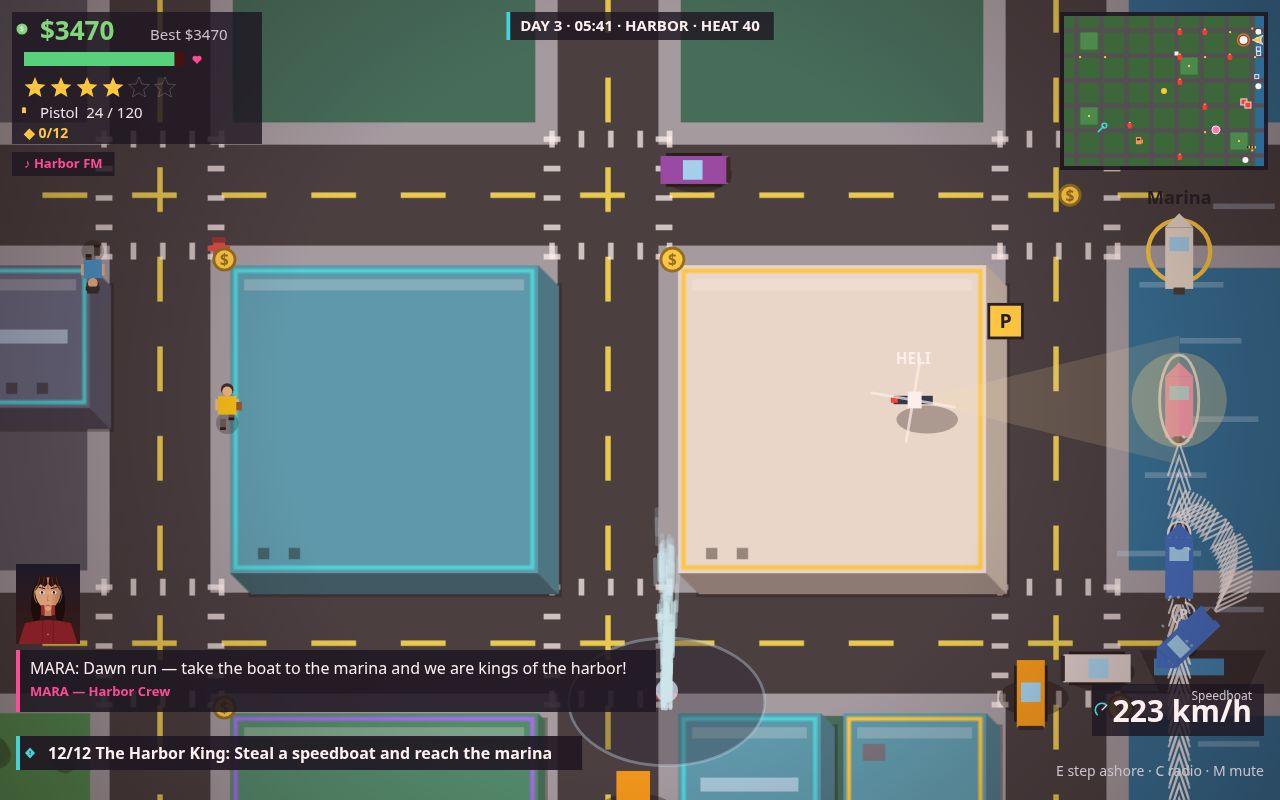
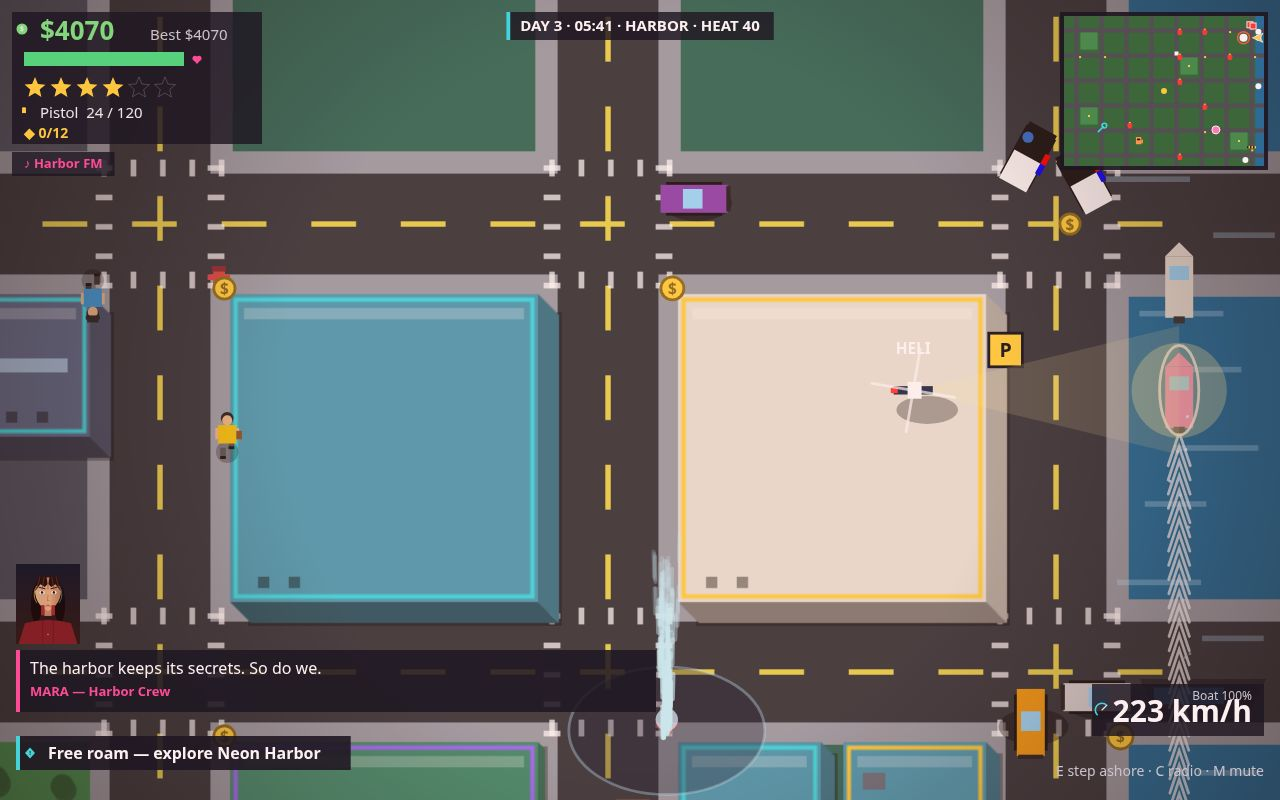
Neon Harbor round 14: police boats hunt you on water

diff --git a/game/src/police.js b/game/src/police.js
@@ -61,8 +61,10 @@ function spawnPointNear(player, rng, distance, city) {
 }
 export function spawnPoliceUnit(police, player, rng, kind, city) {
   if (kind === 'boat') {
-    const bx = WATER_X + 30 + rng.range(0, 60);
-    const by = Math.max(60, Math.min(WORLD_H - 60, player.y + rng.range(-500, 500)));
+    const a = rng.range(0, Math.PI * 2);
+    const d = rng.range(420, 560);
+    const bx = Math.max(WATER_X + 30, Math.min(WORLD_W - 30, player.x + Math.cos(a) * d));
+    const by = Math.max(60, Math.min(WORLD_H - 60, player.y + Math.sin(a) * d));
     police.units.push({
       kind: 'boat', x: bx, y: by, angle: 0, speed: 0, health: 3, ramTimer: 0, wake: [],
     });
@@ -182,7 +184,8 @@ export function stepPolice(police, state, dt, rng, events) {
   const districtHeat = state.heat ? state.heat[state.city.districts.indexOf(district)] || 0 : 0;
   const hotExtra = wanted >= 1 && districtHeat >= 60 ? 2 : 0;
   const want = wantedUnitCount(wanted) + state.gunmen + hotExtra;
-  if (!player.inBoat) police.units = police.units.filter((u) => u.kind !== 'boat');
+  if (!player.inBoat || wanted < 3) police.units = police.units.filter((u) => u.kind !== 'boat');
+  if (!police.units.some((u) => u.kind === 'boat')) police.boatWarned = false;
   police.spawnTimer -= dt;
   if (police.roadblockTimer > 0) police.roadblockTimer -= dt;
   if (police.barrierTimer > 0) police.barrierTimer -= dt;
@@ -238,10 +241,19 @@ export function stepPolice(police, state, dt, rng, events) {
   }
   if (police.units.length < want && police.spawnTimer <= 0) {
     police.spawnTimer = heli.active ? 0.8 : (districtHeat >= 60 ? 0.9 : 1.2);
-    const kind = player.inBoat ? 'boat'
+    const boats = police.units.filter((u) => u.kind === 'boat').length;
+    const kind = player.inBoat
+      ? (wanted >= 3 && boats < 2 ? 'boat' : null)
       : (wanted >= 6 && rng.chance(0.45) ? (player.inCar ? 'mtruck' : 'soldier')
         : (player.inCar && wanted >= 2 ? 'car' : 'foot'));
-    spawnPoliceUnit(police, player, rng, kind, state.city);
+    if (kind) {
+      spawnPoliceUnit(police, player, rng, kind, state.city);
+      if (kind === 'boat' && !police.boatWarned) {
+        police.boatWarned = true;
+        state.mission.dialogue = ['POLICE BOATS INBOUND! Outrun them on the water!'];
+        state.mission.dialogueTimer = 5;
+      }
+    }
   }
   let busted = false;
   for (let i = police.units.length - 1; i >= 0; i -= 1) {
@@ -279,7 +291,11 @@ export function stepPolice(police, state, dt, rng, events) {
         unit.ramTimer = 0.8;
         events.crash = true;
         state.player.health = Math.max(0, state.player.health - 3);
-        if (player.boat) player.boat.speed *= 0.8;
+        if (player.boat) {
+          player.boat.speed *= 0.8;
+          player.boat.hp -= 34;
+          if (player.boat.hp <= 0) events.boatSunk = { x: player.boat.x, y: player.boat.y };
+        }
         unit.speed *= 0.5;
       }
     } else if (unit.kind === 'car') {

diff --git a/game/src/world.js b/game/src/world.js
@@ -117,6 +117,7 @@ export function createWorld(rng, savedMission) {
     state.floaters.length = 0;
     state.police.units.length = 0;
     state.police.arrestTimer = 0;
+    state.police.boatWarned = false;
     state.police.roadblockTimer = 0;
     state.police.barrierTimer = 8;
     state.police.heli.active = false;
@@ -780,6 +781,19 @@ export function createWorld(rng, savedMission) {
       });
     }
     stepPolice(state.police, state, dt, rng, events);
+    if (events.boatSunk) {
+      const boat = p.boat;
+      spawnExplosion(events.boatSunk.x, events.boatSunk.y);
+      if (boat) boat.alive = false;
+      p.inBoat = false;
+      p.boat = null;
+      p.x = WATER_X - 40;
+      p.y = Math.max(40, Math.min(WORLD_H - 40, events.boatSunk.y));
+      p.health = Math.max(10, p.health - 15);
+      state.mission.dialogue = ['Your boat went down! Swim back to shore, Jax.'];
+      state.mission.dialogueTimer = 5;
+      events.boatSunk = null;
+    }
     if (!state.police.heli.active) decayWanted(state, dt);
     stepBridge(state.bridge, state, dt, { floater: addFloater, explosion: spawnExplosion });
     updateMission(state, dt);

diff --git a/game/src/render.js b/game/src/render.js
@@ -765,6 +765,10 @@ export function createRenderer(canvas) {
       ctx.beginPath();
       ctx.arc(unit.x, unit.y - 12, 4, 0, Math.PI * 2);
       ctx.fill();
+      ctx.fillStyle = '#ffffff';
+      ctx.font = `bold 9px ${FONT}`;
+      ctx.textAlign = 'center';
+      ctx.fillText('POLICE', unit.x, unit.y - 20);
     }
     const heli = state.police.heli;
     if (heli && heli.active && inView(heli.x, heli.y, 420)) {
@@ -1108,7 +1112,7 @@ export function createRenderer(canvas) {
         const hp = Math.max(0, Math.round(p.car.hp || 0));
         text(`Car ${hp}%`, view.w - 28, view.h - 100, 12, '#c8cdd6', 'right');
       } else {
-        text('Speedboat', view.w - 28, view.h - 100, 12, '#c8cdd6', 'right');
+        text(`Boat ${Math.max(0, Math.round(p.boat.hp || 0))}%`, view.w - 28, view.h - 100, 12, '#c8cdd6', 'right');
       }
       if (p.car && p.car.tiresPopped) {
         text('TIRES POPPED — garage $150 (G)', view.w - 16, view.h - 128, 14, '#ff5a3c', 'right', 'bold');

diff --git a/game/src/boats.js b/game/src/boats.js
@@ -11,7 +11,7 @@ export function createBoats(city, rng) {
   return spots.map((s, i) => ({
     x: s.x, y: s.y, angle: s.angle, speed: 0,
     color: ['#e8e4d8', '#37e0e6', '#ff7fc0'][i],
-    stolen: false, wake: [], length: 54, width: 20, alive: true,
+    stolen: false, wake: [], length: 54, width: 20, alive: true, hp: 100,
   }));
 }
 export function nearestBoat(boats, x, y, maxDist) {
